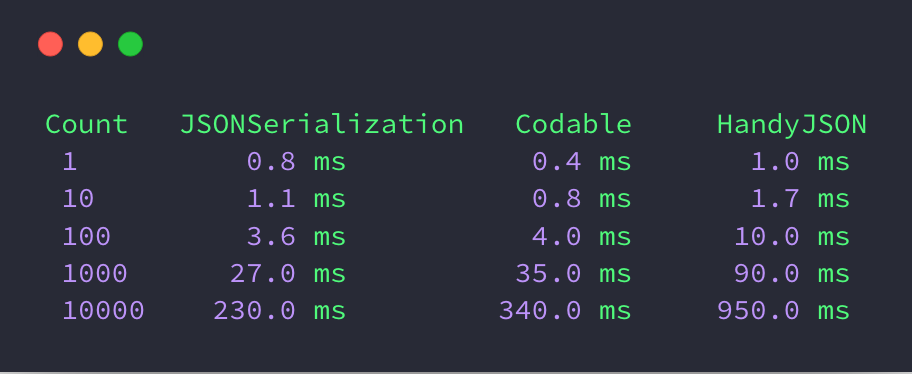
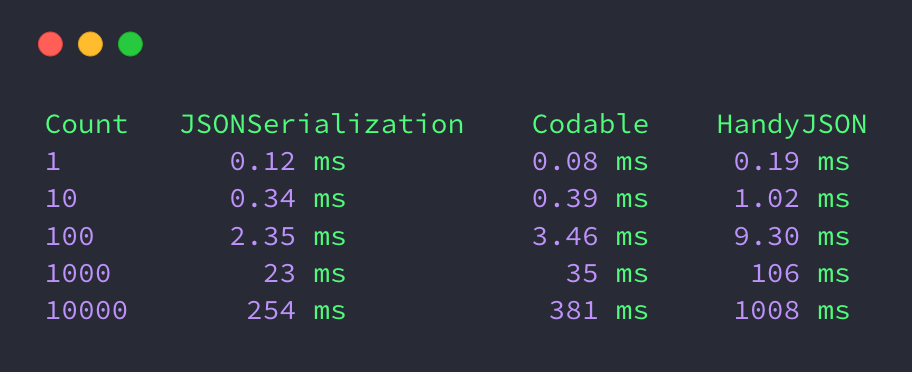
Update demo

diff --git a/JSONParsePerformance/ViewController.swift b/JSONParsePerformance/ViewController.swift
@@ -76,19 +76,30 @@ class ViewController: UIViewController {
         
         let data = airportsJSON(count: 10000) // 1, 10, 100, 1000, or 10000
         
-        let date0 = Date().timeIntervalSince1970
-        let json = try! JSONSerialization.jsonObject(with: data, options: []) as! [[String: Any]]
-        _ = json.map{ Airport(json: $0) }
-        debugPrint("JSONSerialization:", Date().timeIntervalSince1970 - date0)
+        var interval0: TimeInterval = 0
+        var interval1: TimeInterval = 0
+        var interval2: TimeInterval = 0
         
-        let date1 = Date().timeIntervalSince1970
-        let decoder = JSONDecoder()
-        _ = try! decoder.decode([Airport].self, from: data)
-        debugPrint("JSONDecoder:", Date().timeIntervalSince1970 - date1)
+        for _ in 0...9 {
+            
+            let date0 = Date().timeIntervalSince1970
+            let json = try! JSONSerialization.jsonObject(with: data, options: []) as! [[String: Any]]
+            _ = json.map{ Airport(json: $0) }
+            interval0 += (Date().timeIntervalSince1970 - date0)
+            
+            let date1 = Date().timeIntervalSince1970
+            let decoder = JSONDecoder()
+            _ = try! decoder.decode([Airport].self, from: data)
+            interval1 += (Date().timeIntervalSince1970 - date1)
+            
+            let date2 = Date().timeIntervalSince1970
+            _ = JSONDeserializer<Handy>.deserializeModelArrayFrom(json: String(data: data, encoding: .utf8))
+            interval2 += (Date().timeIntervalSince1970 - date2)
+        }
         
-        let date2 = Date().timeIntervalSince1970
-        _ = JSONDeserializer<Handy>.deserializeModelArrayFrom(json: String(data: data, encoding: .utf8))
-        debugPrint("HandyJSON:", Date().timeIntervalSince1970 - date2)
+        debugPrint("JSONSerialization:", interval0 / 10)
+        debugPrint("JSONDecoder:", interval1 / 10)
+        debugPrint("HandyJSON:", interval2 / 10)
     }
 
     override func didReceiveMemoryWarning() {
